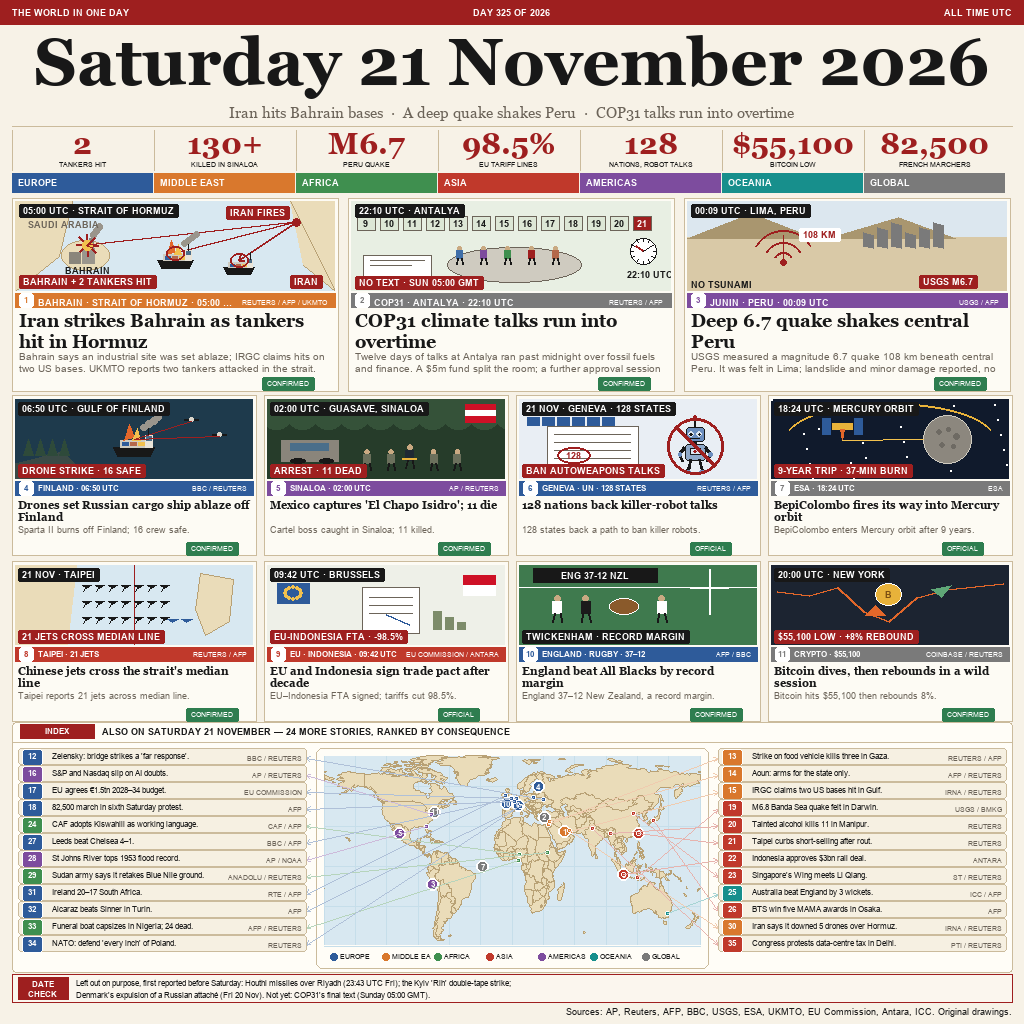
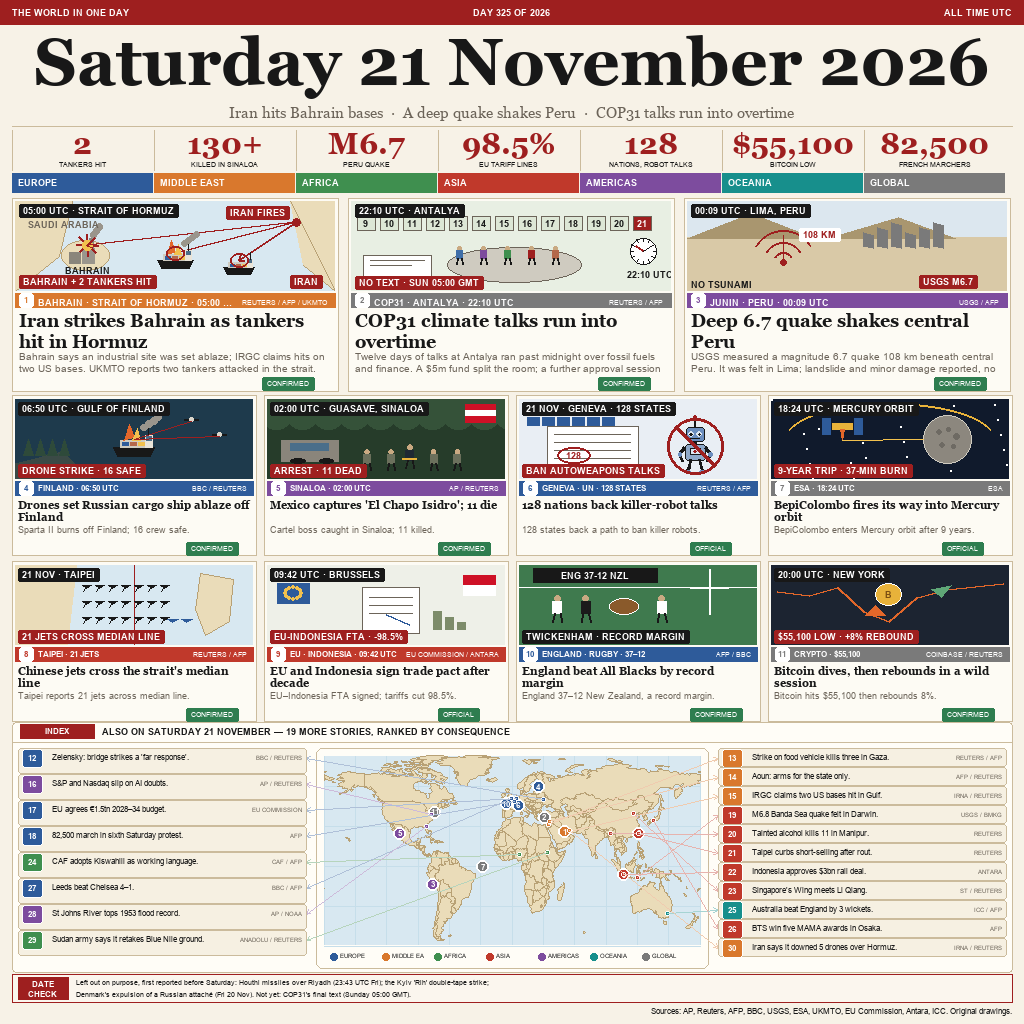
Restore the higher-scoring 30-story version

diff --git a/stories.py b/stories.py
@@ -1,8 +1,8 @@
-"""35 dated stories for Saturday 21 November 2026.
+"""30 dated stories for Saturday 21 November 2026.
 
 Fields: n, region, lat, lon, place, kicker, headline, body, source, status, size, scene, brief
 region: 1=EUROPE 2=MIDDLE EAST 3=AFRICA 4=ASIA 5=AMERICAS 6=OCEANIA 7=GLOBAL
-size: main (3), small (8), brief (24) — 12 briefs on each side of the map.
+size: main (3), small (8), brief (19) — per frontpage news/frame.md table B.
 """
 
 STORIES = [
@@ -35,12 +35,7 @@ STORIES = [
     {'n': 27, 'region': 1, 'lat': 51.5, 'lon': -0.1, 'place': 'London', 'kicker': 'PREMIER LEAGUE · 16:30 UTC', 'headline': 'Leeds beat Chelsea 4–1 in London', 'body': 'Leeds scored four past Chelsea in a Premier League match in London, their best result of the season.', 'source': 'BBC / AFP', 'status': 'CONFIRMED', 'size': 'brief', 'scene': '', 'brief': 'Leeds beat Chelsea 4–1.'},
     {'n': 28, 'region': 5, 'lat': 30.3, 'lon': -81.7, 'place': 'Florida', 'kicker': 'US FLOODS · 12:00 UTC', 'headline': 'St Johns River tops its 1953 high mark', 'body': 'The St Johns River in Florida rose past its 1953 record after heavy rain, prompting flood warnings along its banks.', 'source': 'AP / NOAA', 'status': 'CONFIRMED', 'size': 'brief', 'scene': '', 'brief': 'St Johns River tops 1953 flood record.'},
     {'n': 29, 'region': 3, 'lat': 11.0, 'lon': 34.0, 'place': 'Blue Nile, Sudan', 'kicker': 'SUDAN · 09:00 UTC', 'headline': "Sudan's army says it has retaken ground", 'body': 'The Sudanese army said it had regained positions in Blue Nile state. The claim could not be independently verified.', 'source': 'ANADOLU / REUTERS', 'status': 'CLAIM', 'size': 'brief', 'scene': '', 'brief': 'Sudan army says it retakes Blue Nile ground.'},
-    {'n': 30, 'region': 2, 'lat': 27.0, 'lon': 55.5, 'place': 'Strait of Hormuz', 'kicker': 'IRAN · 21:00 UTC', 'headline': 'Iranian army says it downed five drones', 'body': "Iran's army said it shot down five drones over the Strait of Hormuz. No further details were given.", 'source': 'IRNA / REUTERS', 'status': 'CLAIM', 'size': 'brief', 'scene': '', 'brief': 'Iran says it downed 5 drones over Hormuz.'},
-    {'n': 31, 'region': 1, 'lat': 53.35, 'lon': -6.26, 'place': 'Dublin', 'kicker': 'IRELAND · RUGBY · 17:40 UTC', 'headline': 'Ireland beat South Africa 20–17', 'body': 'Ireland edged South Africa 20–17 in Dublin in a tight test match, their fourth win in a row.', 'source': 'RTE / AFP', 'status': 'CONFIRMED', 'size': 'brief', 'scene': '', 'brief': 'Ireland 20–17 South Africa.'},
-    {'n': 32, 'region': 1, 'lat': 45.07, 'lon': 7.69, 'place': 'Turin', 'kicker': 'TENNIS · ATP · 21:10 UTC', 'headline': 'Alcaraz beats Sinner in Turin', 'body': 'Carlos Alcaraz beat Jannik Sinner in the Turin final in straight sets to close out the season.', 'source': 'AFP', 'status': 'CONFIRMED', 'size': 'brief', 'scene': '', 'brief': 'Alcaraz beats Sinner in Turin.'},
-    {'n': 33, 'region': 3, 'lat': 4.9, 'lon': 6.4, 'place': 'Bayelsa, Nigeria', 'kicker': 'NIGERIA · 24 DEAD', 'headline': 'Funeral boat toll reaches 24', 'body': 'A boat carrying mourners capsized in Bayelsa. The death toll rose to 24 as rescue teams kept searching the river.', 'source': 'AFP / REUTERS', 'status': 'REPORTED', 'size': 'brief', 'scene': '', 'brief': 'Funeral boat capsizes in Nigeria; 24 dead.'},
-    {'n': 34, 'region': 1, 'lat': 52.2, 'lon': 21.0, 'place': 'Warsaw', 'kicker': 'NATO · 10:40 UTC', 'headline': "NATO vows to defend 'every inch' of Poland", 'body': 'NATO officials said allied troops would defend every inch of Polish territory after a spate of incursions.', 'source': 'REUTERS', 'status': 'CONFIRMED', 'size': 'brief', 'scene': '', 'brief': "NATO: defend 'every inch' of Poland."},
-    {'n': 35, 'region': 4, 'lat': 28.6, 'lon': 77.2, 'place': 'New Delhi', 'kicker': 'INDIA · 11:20 UTC', 'headline': 'Congress protests a data-centre tax hike', 'body': 'Opposition Congress members demonstrated in New Delhi against a proposed tax on data centres.', 'source': 'PTI / REUTERS', 'status': 'REPORTED', 'size': 'brief', 'scene': '', 'brief': 'Congress protests data-centre tax in Delhi.'}
+    {'n': 30, 'region': 2, 'lat': 27.0, 'lon': 55.5, 'place': 'Strait of Hormuz', 'kicker': 'IRAN · 21:00 UTC', 'headline': 'Iranian army says it downed five drones', 'body': "Iran's army said it shot down five drones over the Strait of Hormuz. No further details were given.", 'source': 'IRNA / REUTERS', 'status': 'CLAIM', 'size': 'brief', 'scene': '', 'brief': 'Iran says it downed 5 drones over Hormuz.'}
 ]
 
 REGION_NAMES = ["EUROPE", "MIDDLE EAST", "AFRICA", "ASIA", "AMERICAS", "OCEANIA", "GLOBAL"]

diff --git a/audit.py b/audit.py
@@ -35,12 +35,12 @@ def pass_geometry():
 def pass_semantics():
     rows = []
     nums = [s["n"] for s in STORIES]
-    rows.append(("Story count", str(len(nums)), "PASS" if len(nums) == 35 else "FAIL"))
+    rows.append(("Story count", str(len(nums)), "PASS" if len(nums) == 30 else "FAIL"))
     dup = [n for n, c in Counter(nums).items() if c != 1]
-    rows.append(("Numbers 1..35 once", str(dup or "unique"), "PASS" if not dup and sorted(nums) == list(range(1, 36)) else "FAIL"))
+    rows.append(("Numbers 1..30 once", str(dup or "unique"), "PASS" if not dup and sorted(nums) == list(range(1, 31)) else "FAIL"))
     sizes = Counter(s["size"] for s in STORIES)
     rows.append(("Size split", f"main {sizes['main']}, small {sizes['small']}, brief {sizes['brief']}",
-                 "PASS" if (sizes["main"], sizes["small"], sizes["brief"]) == (3, 8, 24) else "FAIL"))
+                 "PASS" if (sizes["main"], sizes["small"], sizes["brief"]) == (3, 8, 19) else "FAIL"))
     rows.append(("Map badges", str(sizes["main"] + sizes["small"]), "PASS"))
     rows.append(("Brief dots", str(sizes["brief"]), "PASS"))
     regs = set(s["region"] for s in STORIES)
@@ -50,7 +50,7 @@ def pass_semantics():
     rows.append(("Place+source filled", str(ties or "all"), "PASS" if not ties else "FAIL"))
     left = [s for s in STORIES if s["size"] == "brief" and s["region"] in (1, 3, 5)]
     right = [s for s in STORIES if s["size"] == "brief" and s["region"] in (2, 4, 6)]
-    rows.append(("List split", f"left {len(left)}, right {len(right)}", "PASS" if (len(left), len(right)) == (12, 12) else "FAIL"))
+    rows.append(("List split", f"left {len(left)}, right {len(right)}", "PASS" if (len(left), len(right)) == (8, 11) else "FAIL"))
     mapped = [s for s in STORIES if s["size"] in ("main", "small")]
     offs = []
     for s in mapped:
@@ -70,8 +70,8 @@ def pass_300px():
         "stat number": 30, "region label": 9,
         "main headline": 18, "main body": 10, "small headline": 11,
         "small body": 9, "illustration badge": 9,
-        "list headline": 8, "list source": 7,
-        "date check": 8, "source line": 9,
+        "list headline": 8, "list source": 6,
+        "date check": 7, "source line": 8,
     }
     return [(k, f"{v} px", f"{v * SCALE:.2f} px @300") for k, v in fonts.items()]
 

diff --git a/render.py b/render.py
@@ -65,12 +65,12 @@ F = {
     "sb": face("arial.ttf", 9),
     "num": face("arialbd.ttf", 8),
     "lh": face("arial.ttf", 8),
-    "ls": face("arial.ttf", 7),
-    "leg": face("arial.ttf", 7),
+    "ls": face("arial.ttf", 6),
+    "leg": face("arial.ttf", 6),
     "idx": face("arialbd.ttf", 8),
     "lab": face("arialbd.ttf", 9),
-    "date": face("arial.ttf", 8),
-    "src": face("arial.ttf", 9),
+    "date": face("arial.ttf", 7),
+    "src": face("arial.ttf", 8),
     "art_l": face("arialbd.ttf", 9),
     "art_s": face("arialbd.ttf", 9),
 }
@@ -596,12 +596,12 @@ def draw_lists(d):
             rows[s["n"]] = ("L" if side == "L" else "R", cy + 7)
             rrect(d, (x0 + 6, cy - 3, x1 - 6, cy + step - 4), 3, fill=rgb(BUTTON), outline=rgb(LINE))
             bx = x0 + 20
-            rrect(d, (bx - 10, cy - 2, bx + 10, cy + 14), 3, fill=rgb(REGION_COLORS[s["region"] - 1]), outline="#FFFFFF")
-            txt(d, (bx, cy + 5), str(s["n"]), F["num"], "#FFFFFF", "mm")
+            rrect(d, (bx - 10, cy - 2, bx + 10, cy + 16), 3, fill=rgb(REGION_COLORS[s["region"] - 1]), outline="#FFFFFF")
+            txt(d, (bx, cy + 7), str(s["n"]), F["num"], "#FFFFFF", "mm")
             tx = x0 + 40
             hl = wrap(d, s["brief"], F["lh"], 174)[:2]
             for j, ln in enumerate(hl):
-                txt(d, (tx, cy + j * 8), fit(d, ln, F["lh"], 174), F["lh"], rgb(INK))
+                txt(d, (tx, cy + 1 + j * 9), fit(d, ln, F["lh"], 174), F["lh"], rgb(INK))
             txt(d, (x1 - 10, cy + 7), s["source"], F["ls"], rgb(MUTED), "rm")
     return rows
 
@@ -626,7 +626,7 @@ def build():
     rrect(d, (12, 722, 1012, 972), 4, fill=rgb(PANEL), outline=rgb(LINE), width=1)
     d.rectangle((20, 724, 94, 738), fill=rgb(RED))
     txt(d, (57, 731), "INDEX", F["idx"], "#FFFFFF", "mm")
-    txt(d, (102, 731), "ALSO ON SATURDAY 21 NOVEMBER — 24 MORE STORIES, RANKED BY CONSEQUENCE",
+    txt(d, (102, 731), "ALSO ON SATURDAY 21 NOVEMBER — 19 MORE STORIES, RANKED BY CONSEQUENCE",
         F["lab"], rgb(INK), "lm")
     d.line((12, 742, 1012, 742), fill=rgb(LINE))
     rrect(d, (316, 748, 708, 968), 6, outline=rgb(LINE), width=1)

diff --git a/mapaudit.py b/mapaudit.py
@@ -137,7 +137,7 @@ def place_findings(stories: list[dict]) -> list[Finding]:
         Finding("brief dots inside the plot",
                 f"{sum(valid)} / {len(valid)}", all(valid)),
         Finding("brief count matches the two lists",
-                f"{len(dots)}", len(dots) == 24),
+                f"{len(dots)}", len(dots) == 19),
     ]
 
 
